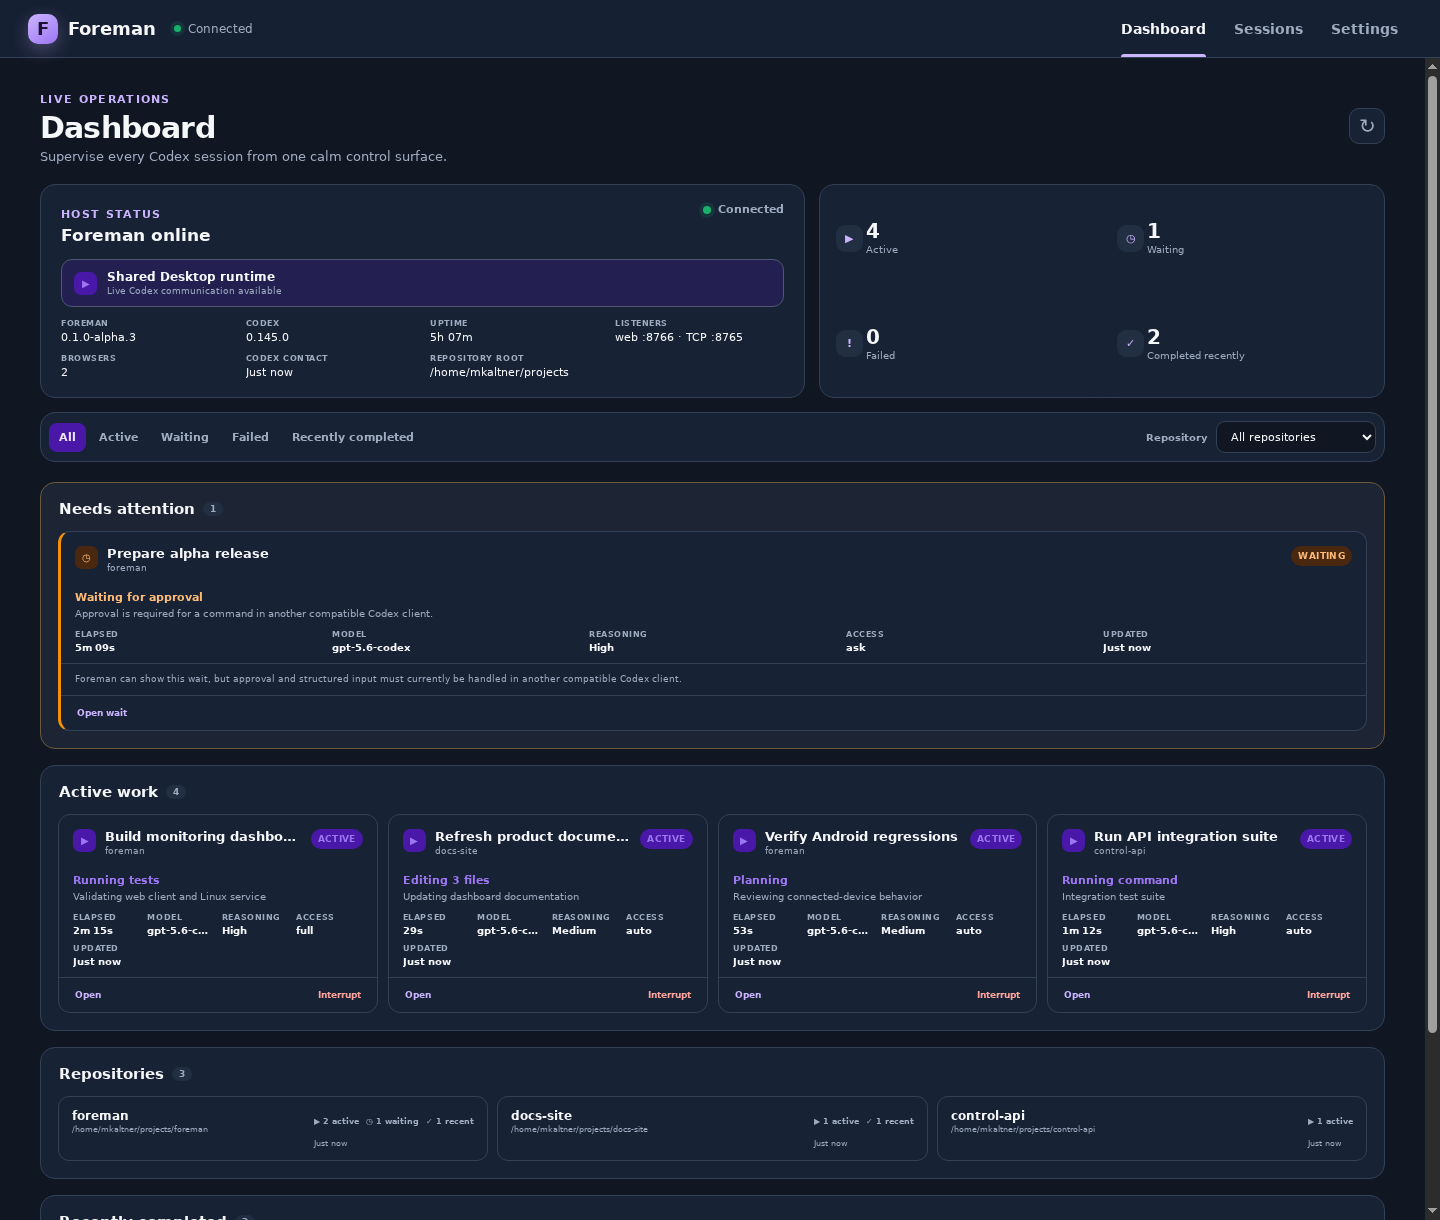
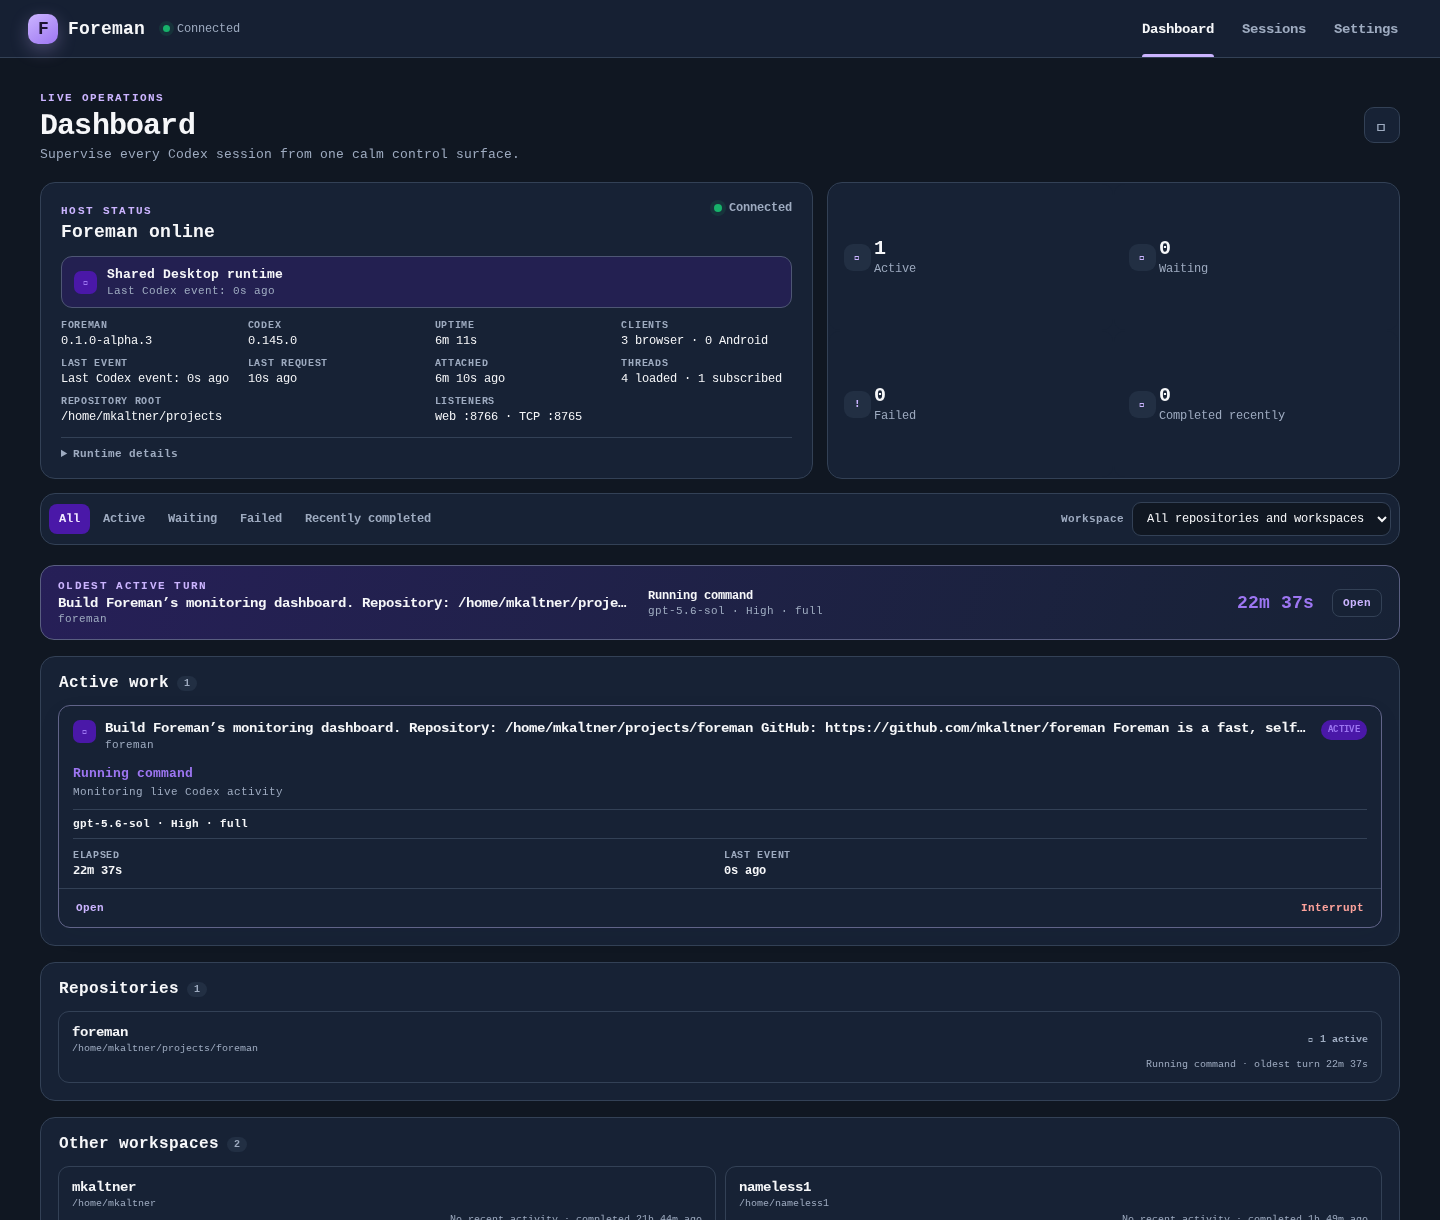
Document dashboard supervision diagnostics

diff --git a/README.md b/README.md
@@ -77,8 +77,8 @@ as an alternative.
 
 - Pair clients with a short-lived, six-digit, one-time code.
 - Reconnect with persistent token authentication and fresh authoritative state.
-- Supervise active, waiting, failed, and recently terminal work from a live
-  multi-session dashboard grouped by repository.
+- Supervise active, waiting, failed, stale, and recently terminal work from a
+  live dashboard with an attention queue, oldest-turn callout, and activity feed.
 - Discover Git repositories and browse active and recent Codex sessions.
 - List, read, start, resume, archive, and delete sessions.
 - Prompt, steer, and interrupt active work.
@@ -132,19 +132,24 @@ profile or device.
 on `8765`. If a firewall is enabled, allow only the listener needed by each
 trusted client or secure overlay.
 
-The SPA opens on a responsive operational dashboard with host/runtime health,
-live summary counts, compact active-session cards, elapsed turn time, a calm
-attention queue, repository groups, and recently terminal work. It also
+The SPA opens on a responsive operational dashboard with host/runtime and event
+freshness, connected-client counts, compact active-session cards, an
+oldest-active-turn callout, a calm attention queue, repository/workspace groups,
+and a bounded recent-activity feed. Dashboard typography is sized for quick
+scanning across desktop and mobile. It also
 supports the existing session list and real history; detailed live thinking,
 planning, command, and tool activity; new sessions; prompt, steer, and interrupt;
 descriptive model/reasoning/access menus; file-picker and clipboard images;
 archive/delete; opt-in browser notifications for background tabs; bounded
 reconnect without request replay; durable session URLs with browser Back,
 Forward, and refresh restoration; and responsive theme and accent controls.
-Dashboard data is live while the browser is connected. Recent completion data
-comes from current Codex state and events observed by this browser; it is not a
-permanent audit history. Approval and structured-input waits are identified,
-but must still be handled in another compatible Codex client.
+Dashboard data is live while the browser is connected. “No recent activity” is
+a conservative browser-only heuristic for active turns with no event for ten
+minutes; it never interrupts or changes Codex state. Recent completion and feed
+data come from current Codex state and events observed by this browser and are
+not a permanent audit history. **Other workspaces** contains session roots that
+do not map to a discovered Git repository. Approval and structured-input waits
+are identified, but must still be handled in another compatible Codex client.
 Browser notifications require HTTPS or localhost and work while Foreman remains
 open in a background tab. For another device on the LAN, put the web listener
 behind a trusted same-origin HTTPS reverse proxy. For example, Caddy on the
@@ -266,6 +271,7 @@ does not stop Desktop's Codex runtime.
 - Android distribution is currently sideloaded.
 - Multi-host aggregation is not implemented.
 - Recent dashboard activity is not a persistent audit history.
+- Dashboard stale activity is an observation, not a failure or automatic action.
 - Web support remains experimental during the alpha.
 
 ## Alpha status

diff --git a/docs/install.md b/docs/install.md
@@ -88,11 +88,12 @@ After authentication it opens on the live dashboard. **Sessions** retains the
 conversation list and full interaction view; **Settings** contains appearance,
 notification, and connection preferences.
 
-The dashboard shows current session summaries, repository groups, attention
-states, recently observed terminal work, and Foreman/Codex health while the
-browser is connected. Approval and structured-input waits must be resolved in
-another compatible Codex client. Recent activity is intentionally not a
-persistent audit history.
+The dashboard shows current session summaries, repository and non-Git workspace
+groups, attention states, oldest active work, event freshness, connected-client
+counts, and a bounded recent feed while the browser is connected. “No recent
+activity” is a ten-minute browser heuristic and never changes a turn. Approval
+and structured-input waits must be resolved in another compatible Codex client.
+Recent activity is intentionally not a persistent audit history.
 
 Browser turn notifications can be enabled under **Settings → Notifications**.
 Browsers require HTTPS or localhost for system notifications; plain LAN HTTP

diff --git a/docs/architecture.md b/docs/architecture.md
@@ -42,9 +42,11 @@ installed data directory so Node isn't part of the runtime.
 The dashboard uses the same session-summary projection rather than a parallel
 session model. It subscribes only to working and waiting sessions, coalesces
 high-frequency public activity updates, and keeps transcripts out of monitoring
-state. One shared browser clock updates active-turn elapsed times. Terminal
-events observed during the browser session provide a bounded recent list; no
-dashboard metrics or activity journal are persisted by the service.
+state. One shared browser clock updates active-turn, wait, freshness, and uptime
+labels. Discovered repository metadata separates Git repositories from other
+session workspaces. Lifecycle events observed during the browser session feed a
+coalesced 20-entry recent list; stale-turn observation and feed entries are not
+persisted by the service.
 
 Android uses one Compose activity, one connection/protocol file, a small image
 processor, and one Keystore-backed token store. Its cache is in memory and

diff --git a/docs/protocol.md b/docs/protocol.md
@@ -44,9 +44,12 @@ Implemented types:
 `pair` accepts `pairingKey` and `deviceName`, then returns one persistent
 `deviceToken`. `service.status` returns authenticated, user-facing host health:
 Foreman and Codex versions, uptime, runtime mode, listener ports, repository
-root, browser-connection count, and last successful Codex communication. It
-never includes pairing material, device tokens, environment variables, logs,
-or process details.
+root, aggregate browser/TCP client counts, last Codex event and successful
+request times, attach time, loaded/subscribed thread counts, and narrow runtime
+ownership diagnostics. Authenticated browsers receive `service.event` when safe
+aggregate client counts change; raw-TCP behavior is unchanged. Status never
+includes pairing material, device tokens, environment variables, logs, source
+addresses, or unrestricted process details.
 
 Session summaries include authoritative active-turn start, terminal time,
 duration, safe failure, and wait metadata when Codex supplies it.
